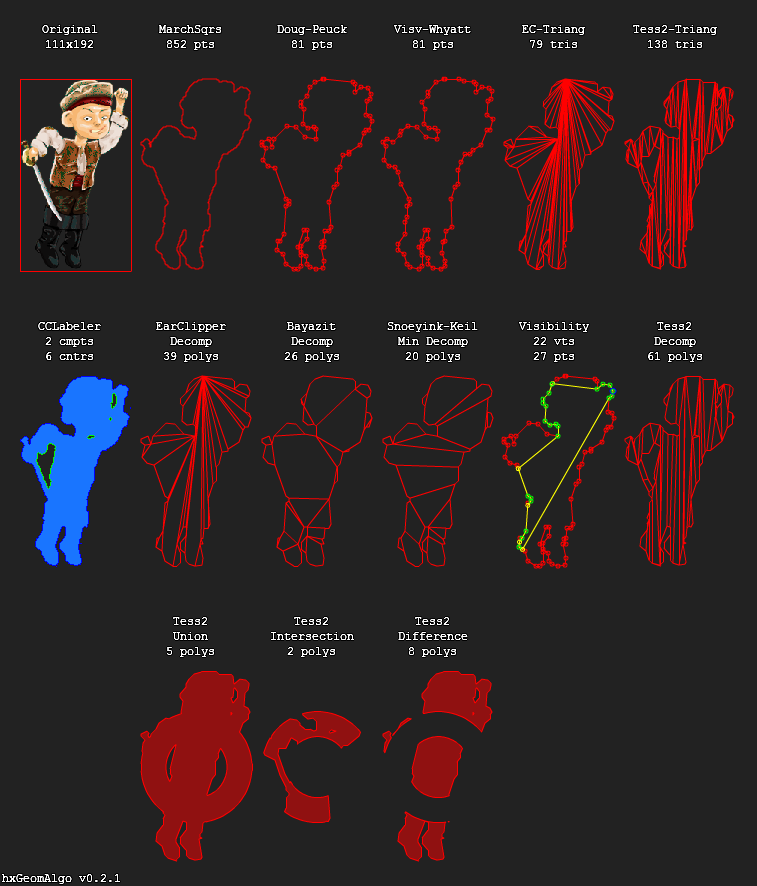
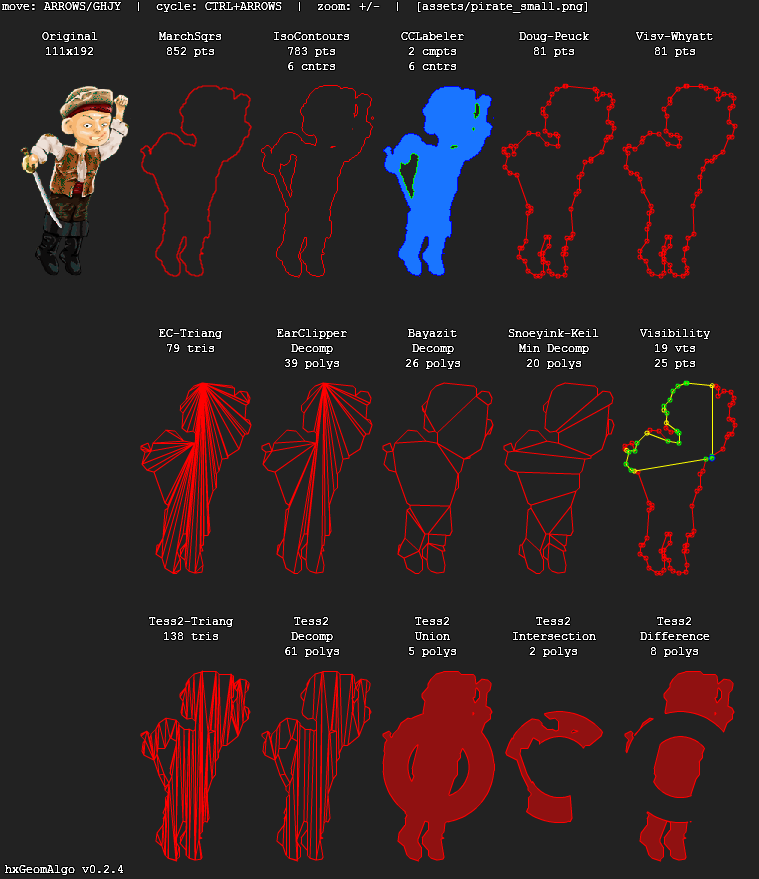
Update to v0.2.5

diff --git a/README.md b/README.md
@@ -5,7 +5,7 @@ Small collection of geometry algorithms in Haxe 3. ([link to AS3 port](https://g
 
 ![](screenshot.png)
 
-#### [Marching Squares (Contour Tracing)](http://en.wikipedia.org/wiki/Marching_squares)
+#### [Marching Squares (Contour Tracing)](https://en.wikipedia.org/w/index.php?title=Marching_squares&oldid=342542650)
 
 Based on:
 
@@ -60,7 +60,7 @@ Based on:
 
  - Visvalingam M., Whyatt J. D.: [Line generalisation by repeated elimination of the smallest area](https://hydra.hull.ac.uk/resources/hull:8338) (1992)
  - [http://bost.ocks.org/mike/simplify/](http://bost.ocks.org/mike/simplify/) (JS - by Mike Bostock)
- - [https://github.com/jonasmalacofilho/dheap](https://github.com/jonasmalacofilho/dheap) (Haxe - Jonas Malaco Filho)
+ - [https://github.com/jonasmalacofilho/dheap](https://github.com/jonasmalacofilho/dheap) (Haxe - by Jonas Malaco Filho)
  - [http://en.wikipedia.org/wiki/Binary_heap](http://en.wikipedia.org/wiki/Binary_heap) (Binary (Min)Heap)
 
 #### [Tess2 (Tesselation to Triangles and Convex Polygons, Poly Boolean Ops)](https://dl.dropboxusercontent.com/u/32864004/dev/FPDemo/tess2.js-demo/index.html)
@@ -69,6 +69,14 @@ Based on:
 
  - GLU Libtess (by Eric Veach, July 1994)
  - [tess2.js](https://github.com/memononen/tess2.js) (JS - by Mikko Mononen, Aug 2013)
+
+#### [IsoContours (Contour Tracing)](https://en.wikipedia.org/wiki/Contour_line)
+
+Based on:
+
+ - [http://en.wikipedia.org/wiki/Marching_squares)
+ - [https://github.com/deltaluca/nape](https://github.com/deltaluca/nape)	(Haxe - by Luca Deltodesco)
+ - [https://github.com/scikit-image/scikit-image](https://github.com/scikit-image/scikit-image)	(Python - by scikit-image team)
 
 
 ## Credits

diff --git a/CREDITS.md b/CREDITS.md
@@ -32,4 +32,8 @@
  - Tess2 (Tesselation to Triangles and Convex Polygons, Poly Boolean Ops)
     - GLU Libtess (by Eric Veach, July 1994)
     - [https://github.com/memononen/tess2.js](https://github.com/memononen/tess2.js) (Mikko Mononen, Aug 2013)
+ - IsoContours (Contour Tracing)
+    - [http://en.wikipedia.org/wiki/Marching_squares)
+    - [https://github.com/deltaluca/nape](https://github.com/deltaluca/nape) (Luca Deltodesco)
+    - [https://github.com/scikit-image/scikit-image](https://github.com/scikit-image/scikit-image) (scikit-image team)
  

diff --git a/CHANGELOG.md b/CHANGELOG.md
@@ -52,3 +52,8 @@
  - Refactored Heap into its own class
  - PolyTools: fixed and improved findDuplicatePoints(), added flatten()
  - Tess2: shortcut methods for boolean ops on polygons
+ - MarchingSquares: force output inside source boundaries, and fix findStartPoint()
+ - IsoContours: initial implementation
+ - Add some interactivity to openfl demo (and more test images)
+ - IsoContours: improve performance (esp. AdjacencyMap)
+ 
